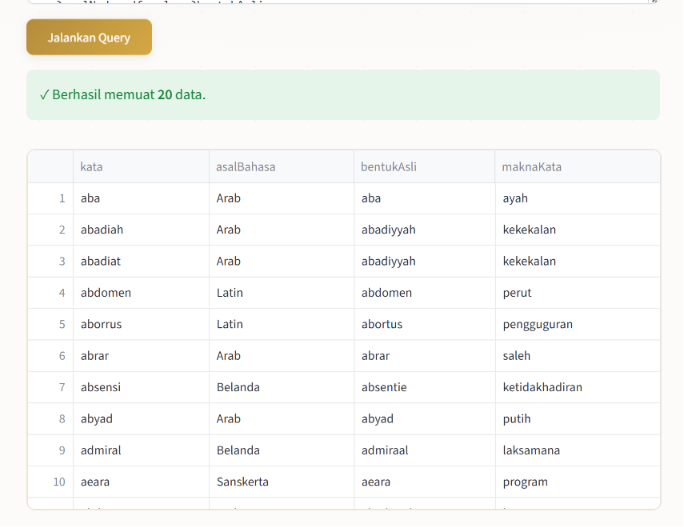
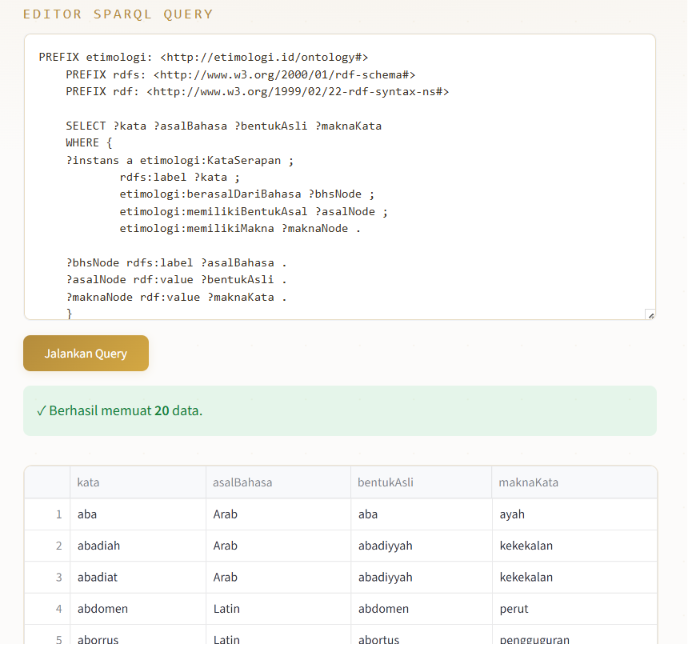
readme

diff --git a/README.md b/README.md
@@ -10,7 +10,6 @@ Aplikasi pencarian etimologi kata serapan dalam Bahasa Indonesia, dibangun mengg
 - [Panduan Instalasi](#panduan-instalasi)
 - [Panduan Penggunaan](#panduan-penggunaan-aplikasi)
 - [Contoh Hasil](#contoh-hasil)
-- [Troubleshooting](#troubleshooting)
 
 ---
 
@@ -172,49 +171,49 @@ Editor bebas untuk menjalankan *query* SPARQL kustom langsung ke endpoint Fuseki
 
 ### 1. Tampilan Awal Aplikasi
 
-![Tampilan Awal Aplikasi](docs/screenshots/01-tampilan-awal.png)
+![Tampilan Awal Aplikasi](docs/TampilanAwal.png)
 
 ### 2. Pencarian Kata — Hasil Ditemukan + Knowledge Graph
 
 Contoh pencarian kata `"absen"`:
 
-![Hasil Pencarian Kata Absen](docs/screenshots/02-hasil-pencarian-absen.png)
+![Hasil Pencarian Kata Absen](docs/TampilanHasil1.png)
 
 | Kata Serapan | Bahasa Sumber | Bentuk Asli | Makna |
 |---|---|---|---|
-| absen | Belanda | absent | tidak hadir |
+| absen | Belanda | absentie | tidak hadir |
 
 Visualisasi *Knowledge Graph* yang muncul di bawah tabel:
 
-![Knowledge Graph Kata Absen](docs/screenshots/03-knowledge-graph-absen.png)
+![Knowledge Graph Kata Absen](docs/knowledge.png)
 
 ### 3. Eksplorasi Data — Statistik Bahasa Sumber
 
 Bar chart (kiri) dan tabel rekapitulasi (kanan):
 
-![Statistik Bahasa Sumber](docs/screenshots/04-statistik-bahasa-sumber.png)
+![Statistik Bahasa Sumber](docs/TampilanStatistik.png)
 
 | Bahasa Sumber | Jumlah Kata |
 |---|---|
-| Belanda | 120 |
-| Arab | 85 |
-| Sanskerta | 40 |
+| Arab | 288 |
+| Belanda | 121 |
+| Sanskerta | 46 |
+| Latin | 22 |
+| Portugis | 19 |
+| Tamil | 5 |
 
 ### 4. Eksplorasi Data — Filter Berdasarkan Bahasa
 
-Contoh filter dengan bahasa `"Latin"`:
+Contoh filter dengan bahasa `"Belanda"`:
 
-![Filter Berdasarkan Bahasa](docs/screenshots/05-filter-bahasa-latin.png)
+![Filter Berdasarkan Bahasa](docs/TampilanFilter.png)
 
-| Kata Serapan | Bentuk Asli | Makna |
-|---|---|---|
-| abdomen | abdomen | bagian perut |
 
 ### 5. Eksekusi Manual — Tab SPARQL Query
 
 Editor dengan query default `LIMIT 20`:
 
-![Editor SPARQL Query](docs/screenshots/06-editor-sparql.png)
+![Editor SPARQL Query](docs/Kueri.png)
 
 ```sparql
 PREFIX etimologi: <http://etimologi.id/ontology#>
@@ -238,29 +237,6 @@ LIMIT 20
 
 ### 6. Hasil Eksekusi Query SPARQL
 
-![Hasil Query SPARQL](docs/screenshots/07-hasil-query-sparql.png)
-
-### 7. Peringatan / Error
-
-- Query kosong → ⚠ **Query tidak boleh kosong.**
-- Query valid tapi tidak ada data cocok → **Query berhasil dijalankan, tetapi tidak ada data yang cocok.**
-- Endpoint tidak terhubung → **Gagal terhubung ke SPARQL Endpoint. Pastikan Apache Jena Fuseki berjalan.**
-
-![Peringatan Query](docs/screenshots/08-peringatan-query.png)
+![Hasil Eksekusi Kueri](docs/HasilKueri.png)
 
 ---
-
-## ❗ Troubleshooting
-
-| Masalah | Kemungkinan Sebab | Solusi |
-|---|---|---|
-| "Gagal terhubung ke SPARQL Endpoint..." | Server Fuseki tidak aktif | Pastikan `fuseki-server` berjalan di `http://localhost:3030` |
-| Error nama dataset | Nama dataset salah ketik | Pastikan nama dataset persis `kamus-serapan` |
-| Hasil pencarian/eksplorasi kosong | Data RDF belum diunggah | Pastikan file `.ttl`/`.rdf` sudah di-*upload* ke dataset |
-| Knowledge Graph tidak muncul / kosong | Tidak ada data cocok dengan kata yang dicari | Coba kata kunci lain, atau pastikan data RDF lengkap |
-| `streamlit: command not found` | Virtual environment belum aktif / library belum terinstal | Aktifkan venv, jalankan ulang `pip install -r requirements.txt` |
-| `ModuleNotFoundError: No module named 'pyvis'` | Library PyVis belum terinstal | Jalankan `pip install pyvis` atau pastikan ada di `requirements.txt` |
-
----
-
-## 📂 Struktur Folder (disarankan)
